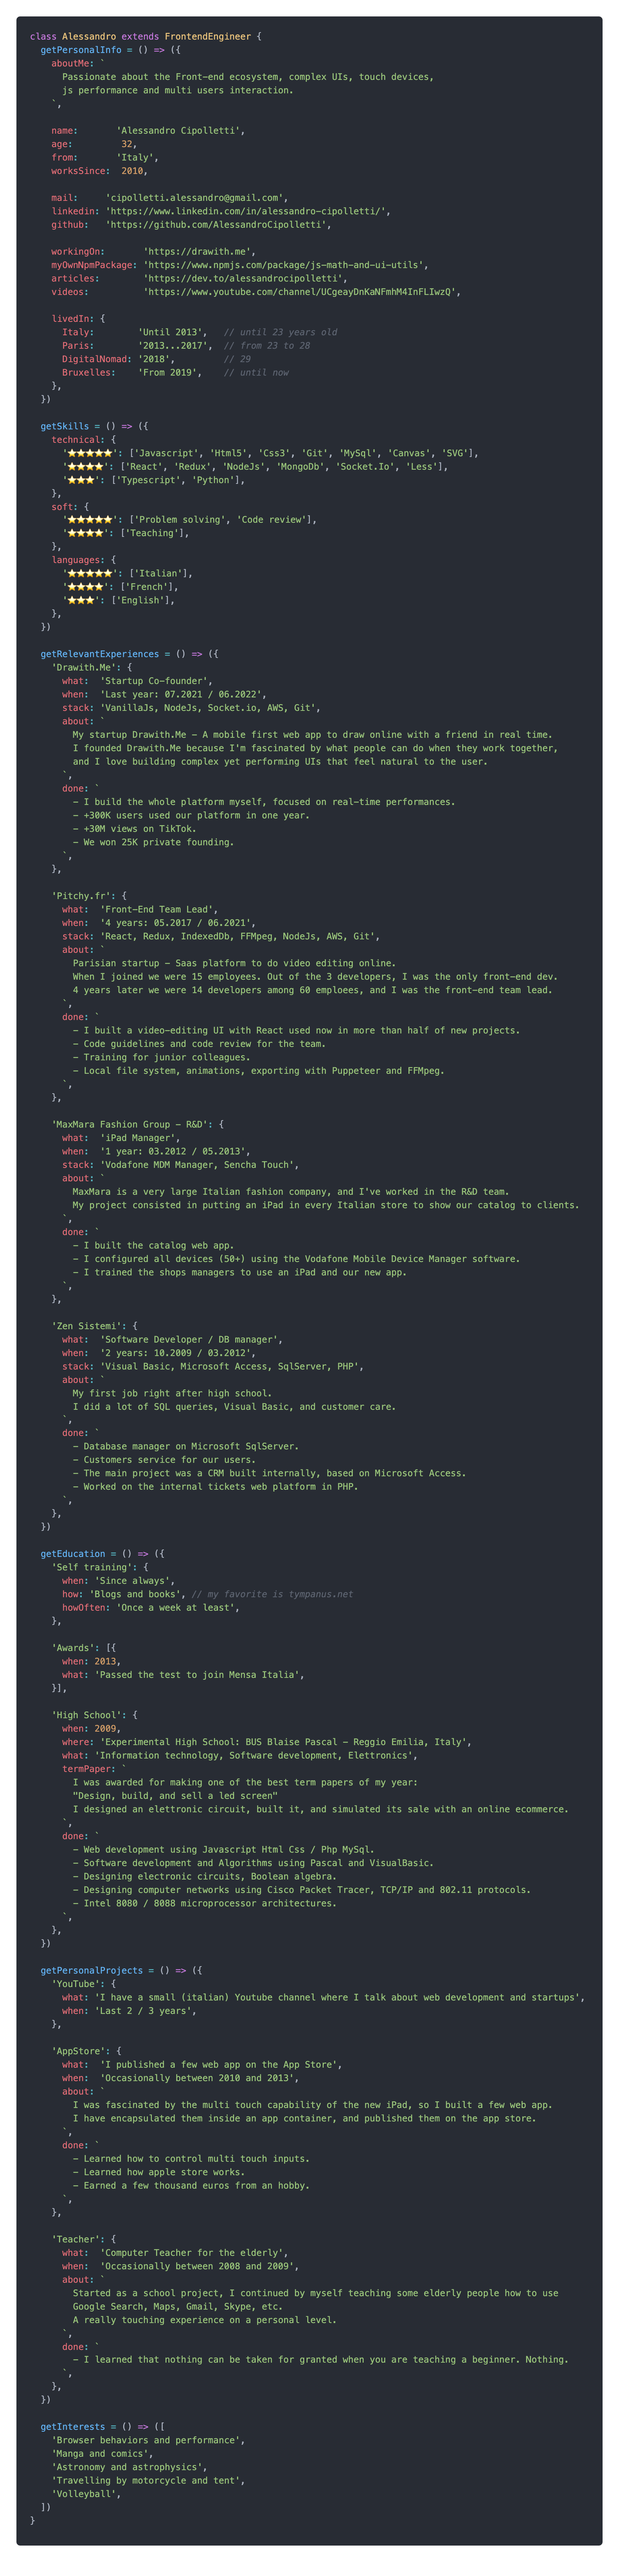
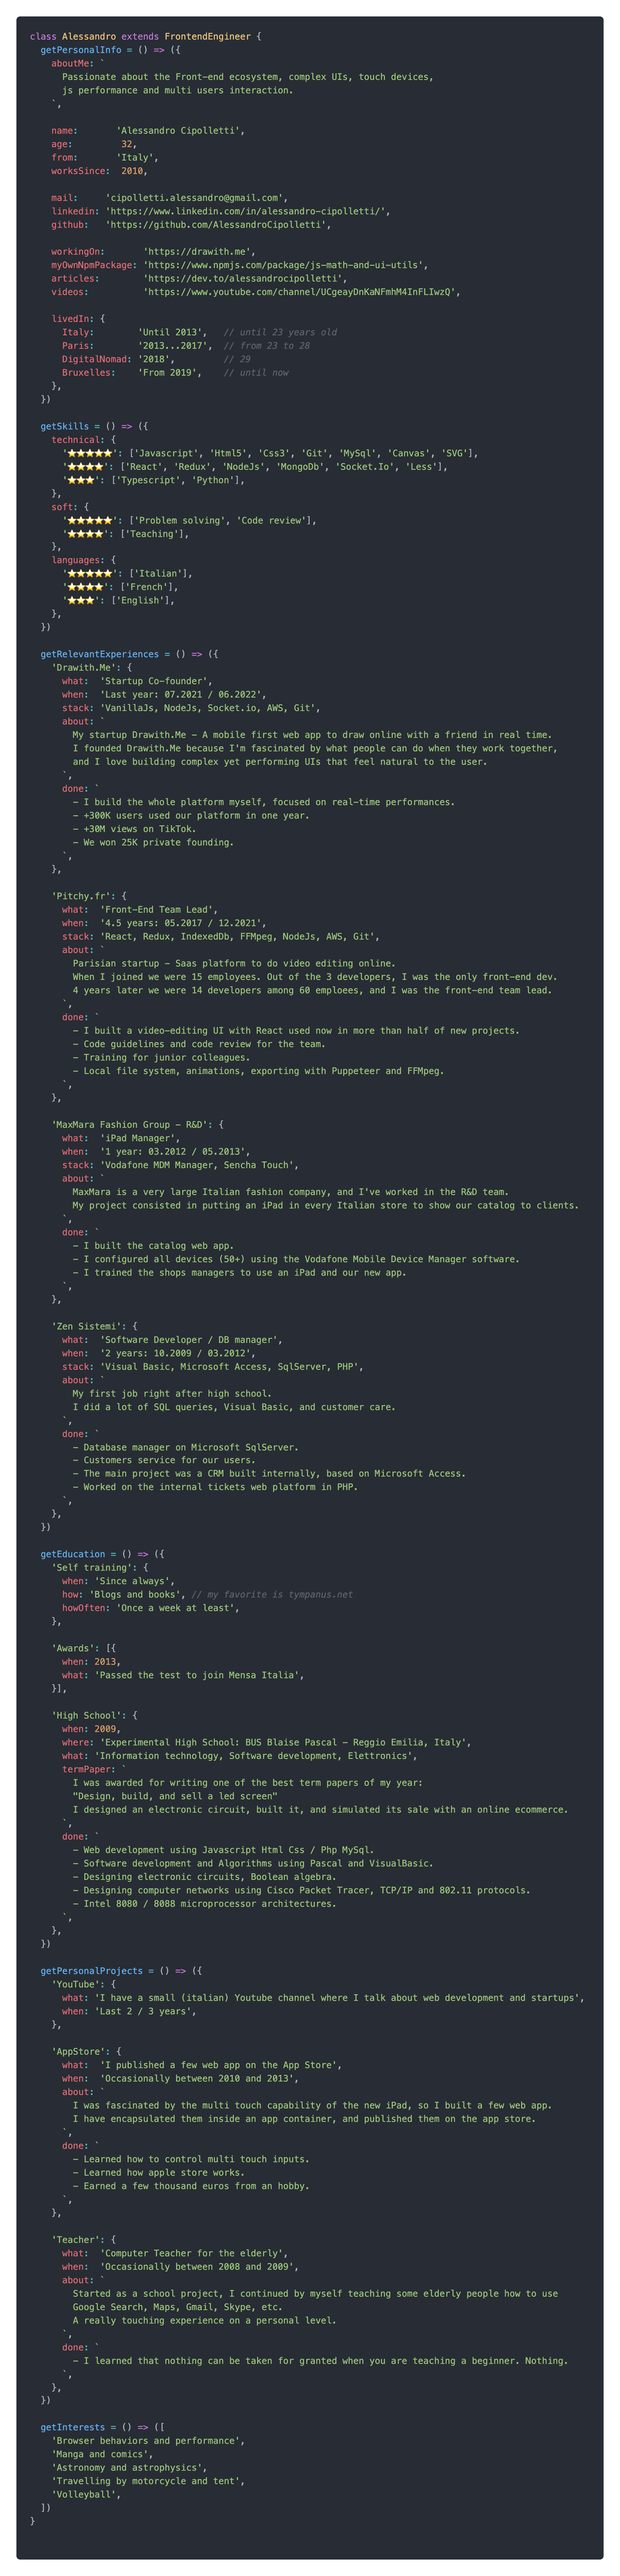
some typos

diff --git a/myself2.js b/myself2.js
@@ -9,11 +9,11 @@ class Alessandro extends FrontendEngineer {
     age:         32,
     from:       'Italy',
     worksSince:  2010,
-    
+
     mail:     'cipolletti.alessandro@gmail.com',
     linkedin: 'https://www.linkedin.com/in/alessandro-cipolletti/',
     github:   'https://github.com/AlessandroCipolletti',
-  
+
     workingOn:       'https://drawith.me',
     myOwnNpmPackage: 'https://www.npmjs.com/package/js-math-and-ui-utils',
     articles:        'https://dev.to/alessandrocipolletti',
@@ -43,7 +43,7 @@ class Alessandro extends FrontendEngineer {
       '⭐⭐⭐': ['English'],
     },
   })
-  
+
   getRelevantExperiences = () => ({
     'Drawith.Me': {
       what:  'Startup Co-founder',
@@ -64,7 +64,7 @@ class Alessandro extends FrontendEngineer {
 
     'Pitchy.fr': {
       what:  'Front-End Team Lead',
-      when:  '4 years: 05.2017 / 06.2021',
+      when:  '4.5 years: 05.2017 / 12.2021',
       stack: 'React, Redux, IndexedDb, FFMpeg, NodeJs, AWS, Git',
       about: `
         Parisian startup - Saas platform to do video editing online.
@@ -128,9 +128,9 @@ class Alessandro extends FrontendEngineer {
       where: 'Experimental High School: BUS Blaise Pascal - Reggio Emilia, Italy',
       what: 'Information technology, Software development, Elettronics',
       termPaper: `
-        I was awarded for making one of the best term papers of my year:
+        I was awarded for writing one of the best term papers of my year:
         "Design, build, and sell a led screen"
-        I designed an elettronic circuit, built it, and simulated its sale with an online ecommerce.
+        I designed an electronic circuit, built it, and simulated its sale with an online ecommerce.
       `,
       done: `
         - Web development using Javascript Html Css / Php MySql.
